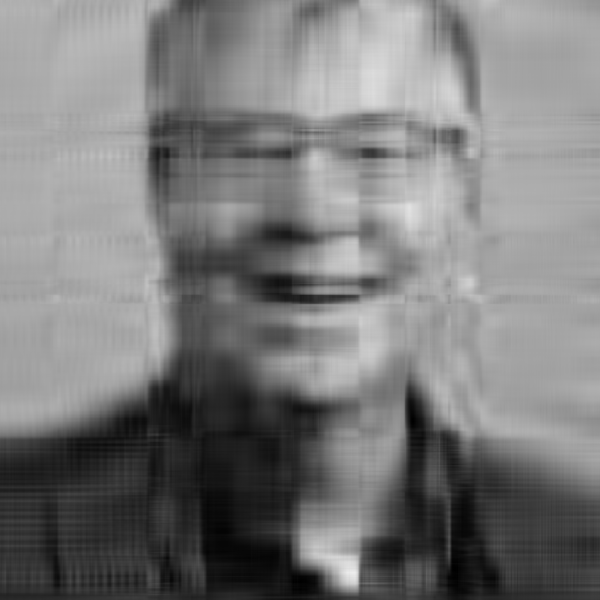
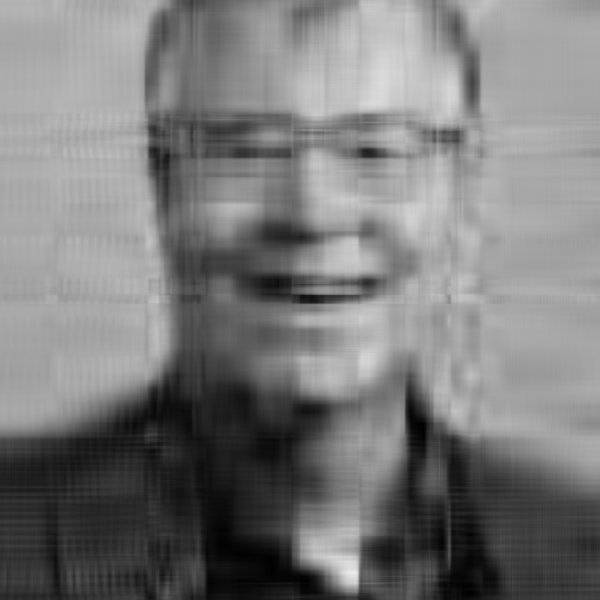
lins

diff --git a/MidProject/NMF/run_nonnegative_matrix_factorization_image.m b/MidProject/NMF/run_nonnegative_matrix_factorization_image.m
@@ -1,9 +1,9 @@
 function run_nonnegative_matrix_factorization_image()
     tic;
-    for p = 10:10:100
+    for p = 10:10:300
         
         starttime = toc;
-        tol = 1e-3;
+        tol = 1e-5;
     
         C = imread('Pro.png');  % This image is in uint8 format.
         
